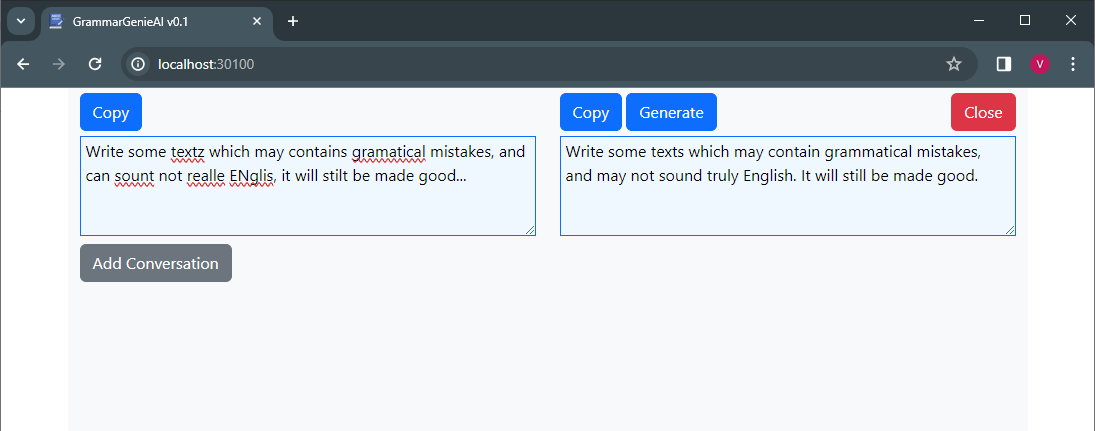
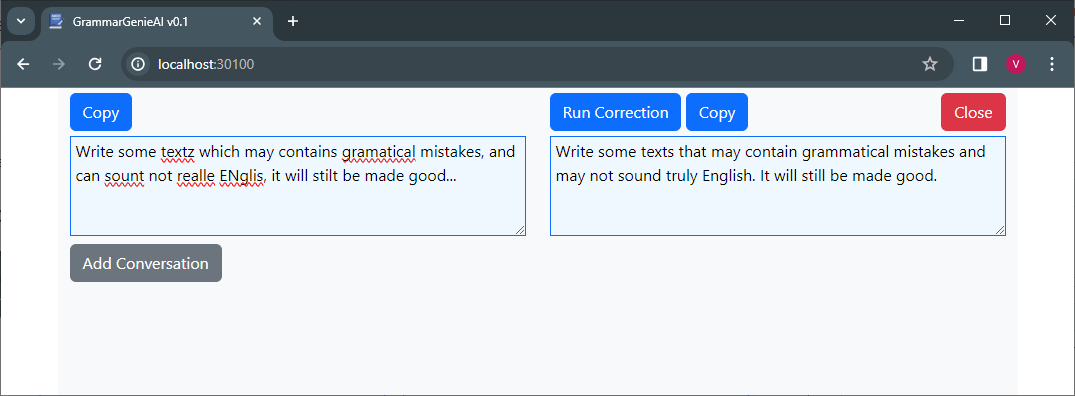
Updates

diff --git a/static/js/components/editor/editor.html b/static/js/components/editor/editor.html
@@ -10,13 +10,12 @@
 <!-- AI Assistant -->
 <div class="editor" ng-if="!isUserText">
     <div class="editor-menu clearfix">
-        <button type="button" class="btn btn-primary" ng-click="copy()">Copy</button>
-        <button type="button" class="btn btn-primary" ng-click="generate()" ng-if="!generationInProgress">Generate</button>
-
+        <button type="button" class="btn btn-primary" ng-click="generate()" ng-if="!generationInProgress">Run Correction</button>
         <button type="button" class="btn btn-primary" ng-if="generationInProgress">
             <span class="spinner-border spinner-border-sm" role="status" aria-hidden="true"></span>
-            <span class="sr-only">Generating...</span>
+            <span class="sr-only">Running...</span>
         </button>
+        <button type="button" class="btn btn-primary" ng-click="copy()">Copy</button>
 
         <button type="button" class="btn btn-danger float-right" ng-click="close()">Close</button>
     </div>
